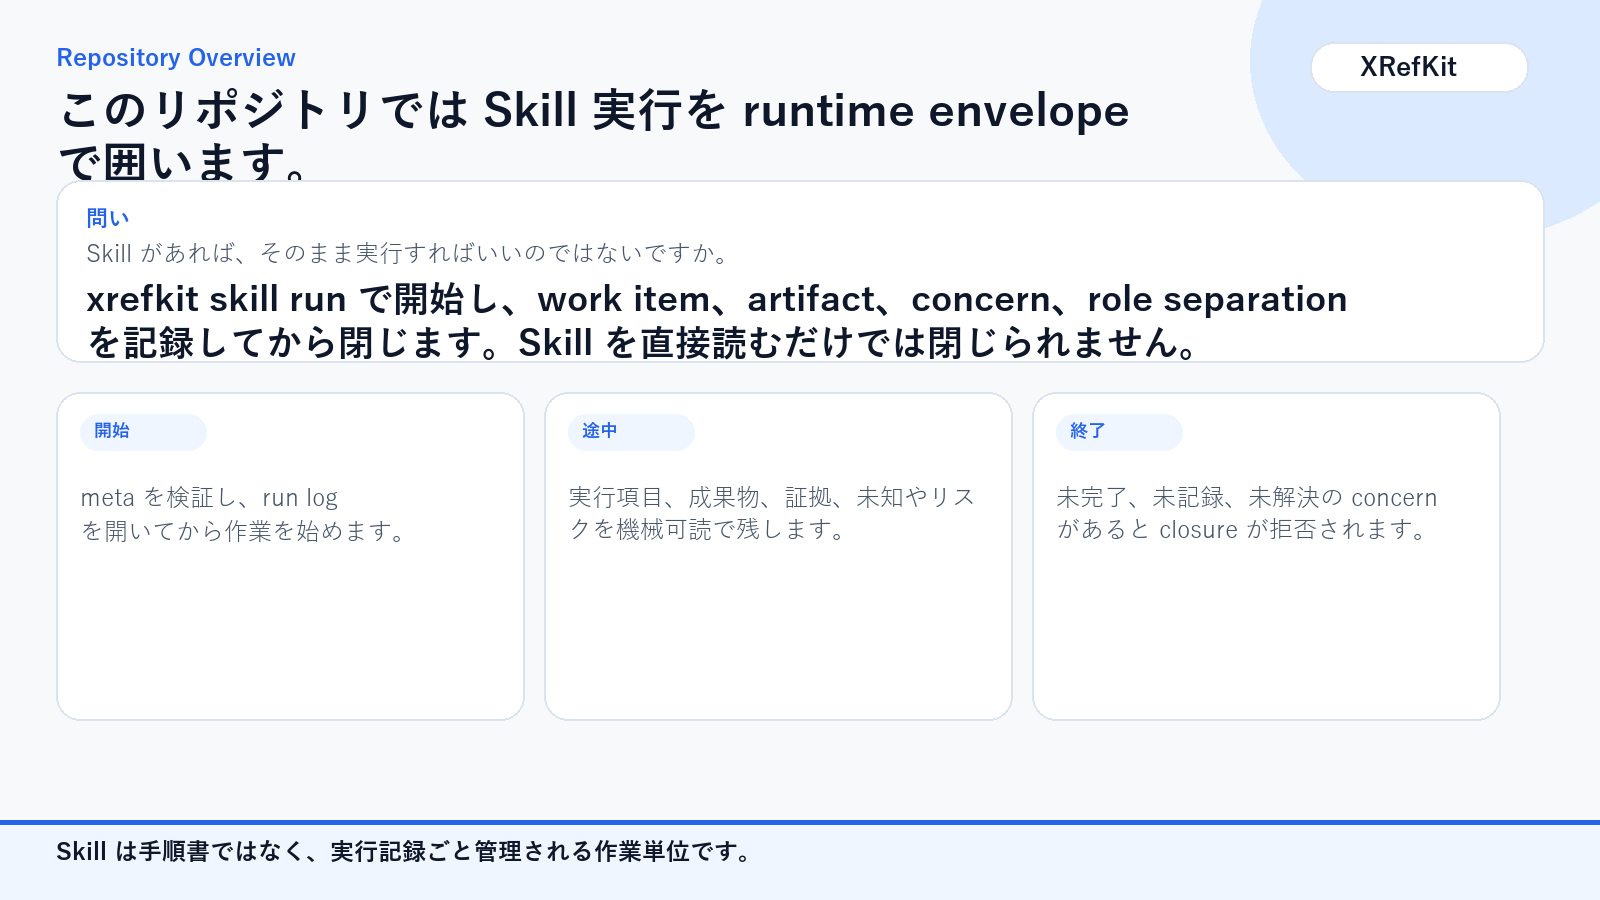
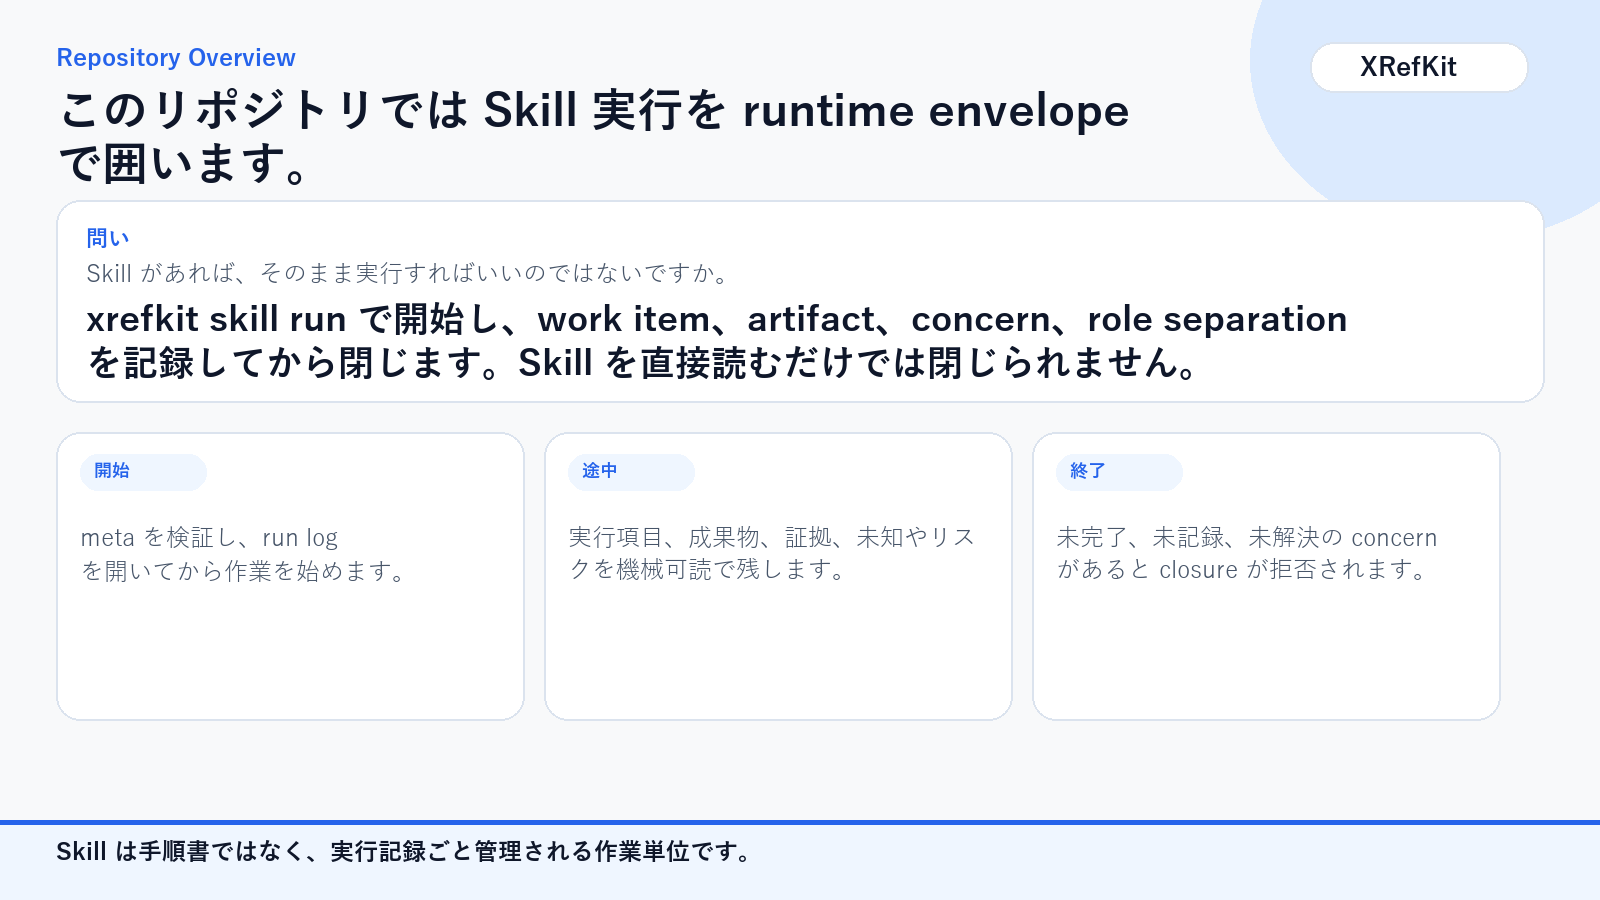
Keep deck 065 text inside slide bounds

Changed region(s): [[0.0312, 0.2178, 0.9375, 0.6533], [0.8125, 0.1867, 0.9688, 0.2489]]

diff --git a/human-docs/ja/assets/065_xrefkit_repository_overview/render_pngs.py b/human-docs/ja/assets/065_xrefkit_repository_overview/render_pngs.py
@@ -124,12 +124,24 @@ def font(size: int, *, bold: bool = False) -> ImageFont.FreeTypeFont:
 
 
 def wrap(draw: ImageDraw.ImageDraw, text: str, text_font: ImageFont.ImageFont, max_width: int) -> list[str]:
-    words = text.split(" ")
-    if len(words) == 1:
-        chars = list(text)
-        lines: list[str] = []
-        current = ""
-        for ch in chars:
+    lines: list[str] = []
+    current = ""
+    for word in text.split():
+        separator = " " if current else ""
+        trial = f"{current}{separator}{word}"
+        if draw.textbbox((0, 0), trial, font=text_font)[2] <= max_width:
+            current = trial
+            continue
+
+        if current:
+            lines.append(current)
+            current = ""
+
+        if draw.textbbox((0, 0), word, font=text_font)[2] <= max_width:
+            current = word
+            continue
+
+        for ch in word:
             trial = current + ch
             if draw.textbbox((0, 0), trial, font=text_font)[2] <= max_width:
                 current = trial
@@ -137,20 +149,8 @@ def wrap(draw: ImageDraw.ImageDraw, text: str, text_font: ImageFont.ImageFont, m
                 if current:
                     lines.append(current)
                 current = ch
-        if current:
-            lines.append(current)
-        return lines
-
-    lines = []
-    current = ""
-    for word in words:
-        trial = word if not current else f"{current} {word}"
-        if draw.textbbox((0, 0), trial, font=text_font)[2] <= max_width:
-            current = trial
-        else:
-            if current:
-                lines.append(current)
-            current = word
+        if not current:
+            continue
     if current:
         lines.append(current)
     return lines
@@ -205,13 +205,13 @@ def render_answer(slide: dict[str, object]) -> None:
     image, draw = base_image()
     draw_header(draw, title_text=str(slide["title"]))
 
-    draw.rounded_rectangle((56, 180, 1544, 362), radius=24, fill=PANEL, outline=LINE, width=2)
-    draw.text((86, 206), "問い", font=font(22, bold=True), fill=BLUE)
-    draw_multiline(draw, (86, 240), str(slide["question"]), text_font=font(24), fill=MUTED, max_width=1380, line_gap=6)
-    draw_multiline(draw, (86, 280), str(slide["copy"]), text_font=font(36, bold=True), fill=INK, max_width=1380, line_gap=6)
+    draw.rounded_rectangle((56, 200, 1544, 402), radius=24, fill=PANEL, outline=LINE, width=2)
+    draw.text((86, 226), "問い", font=font(22, bold=True), fill=BLUE)
+    draw_multiline(draw, (86, 260), str(slide["question"]), text_font=font(24), fill=MUTED, max_width=1380, line_gap=6)
+    draw_multiline(draw, (86, 300), str(slide["copy"]), text_font=font(36, bold=True), fill=INK, max_width=1380, line_gap=6)
 
     card_left = 56
-    card_top = 392
+    card_top = 432
     card_width = 468
     gap = 20
     for idx, (tag, text) in enumerate(slide["cards"]):  # type: ignore[index]
